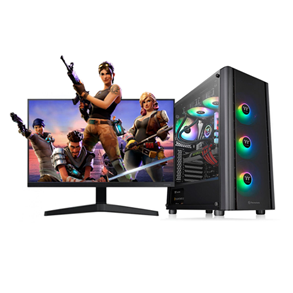
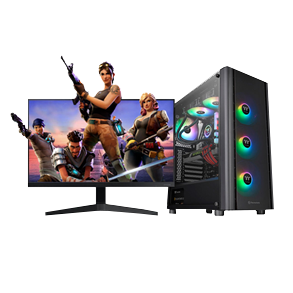
correccion de colores e imagenes convertidas a .png

diff --git a/css/style.css b/css/style.css
@@ -399,10 +399,9 @@ h1 {
   background-color: #ffffff;
   color: black;
   border-radius: 5px; }
-
-.producto:hover {
-  transform: scale(1.01);
-  transition: all 0.3s; }
+  .producto:hover {
+    transform: scale(1.01);
+    transition: all 0.3s; }
 
 .precioProducto {
   font-weight: 700;
@@ -419,14 +418,12 @@ h1 {
   font-weight: 700;
   padding: 5px;
   border: none; }
-
-.boton-agregar:hover {
-  cursor: pointer;
-  background-color: var(--colorCorporativoDark);
-  transition: all 0.3s; }
-
-.boton-agregar:focus {
-  outline: none; }
+  .boton-agregar:hover {
+    cursor: pointer;
+    background-color: var(--colorCorporativoDark);
+    transition: all 0.3s; }
+  .boton-agregar:focus {
+    outline: none; }
 
 .boton-comprar {
   background-color: #15b206;
@@ -435,14 +432,12 @@ h1 {
   font-weight: 700;
   padding: 5px;
   border: none; }
-
-.boton-comprar:hover {
-  cursor: pointer;
-  background-color: #108c04;
-  transition: all 0.3s; }
-
-.boton-comprar:focus {
-  outline: none; }
+  .boton-comprar:hover {
+    cursor: pointer;
+    background-color: #108c04;
+    transition: all 0.3s; }
+  .boton-comprar:focus {
+    outline: none; }
 
 .contenedorBotonAgregarCarrito {
   display: flex;
@@ -487,22 +482,19 @@ h1 {
   font-size: 20px;
   color: #ff0038;
   border: none; }
+  .modal-carrito #carritoCerrar:hover {
+    cursor: pointer; }
+  .modal-carrito #carritoCerrar:focus {
+    outline: none; }
 
 .btnCarritoCerrar {
   background-color: #ffffff; }
 
-.fa-times-circle:hover {
-  color: var(--colorCorporativoDark);
-  transition: all 0.3s; }
-
 .fa-times-circle {
   background-color: white; }
-
-.modal-carrito #carritoCerrar:hover {
-  cursor: pointer; }
-
-.modal-carrito #carritoCerrar:focus {
-  outline: none; }
+  .fa-times-circle:hover {
+    color: var(--colorCorporativoDark);
+    transition: all 0.3s; }
 
 .modal-carrito .precioProducto {
   padding-top: 10px; }
@@ -540,7 +532,7 @@ h1 {
   outline: none; }
 
 .carritoVacioMsj {
-  color: white; }
+  color: black; }
 
 /* Rectángulo de color corporativo arriba del header */
 .rectanguloCabecera {
@@ -644,7 +636,7 @@ h1 {
   display: flex;
   flex-direction: column;
   align-items: center;
-  background-color: #eeeeee;
+  background-color: #e5e5e5;
   width: 30vw;
   height: 50vh;
   border-radius: 7px; }
@@ -656,7 +648,8 @@ h1 {
 .formInput {
   width: 300px;
   border: none;
-  position: absolute; }
+  position: absolute;
+  border-radius: 5px; }
   .formInput::placeholder {
     text-align: left; }
 
@@ -847,6 +840,8 @@ body {
   body.dark .boton-eliminar:focus {
     outline: none; }
   body.dark .precioProducto {
+    color: white; }
+  body.dark .carritoVacioMsj {
     color: white; }
 
 /* Solución para imagenes borrosas al usar "transform: scale()", sacado de stack overflow */
